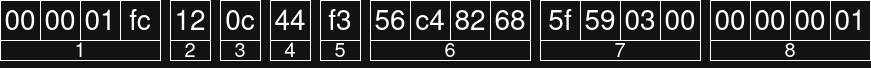
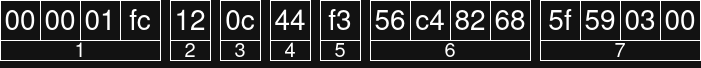
Updated header descriptions of media frames

diff --git a/README.md b/README.md
@@ -75,7 +75,8 @@ Header description of a single DVRIP/Sofia message is based on [Digital Video Re
 5. BIT 7 - low 8 bits of image height; the value is actual height divided by 8
 6. BIT 8-11 - datetime of the capture
 7. BIT 12-15 - length of I-Frame payload
-8. BIT 16-19 - first 4 bits of an I-Frame payload
+
+First 4 bits of an I-Frame payload (BITS 16-19) are equal to `0x00000001`
 
 Same exact header fields are shared between I-Frames (FC) and snapshots (FE).
 
@@ -89,7 +90,8 @@ Extension of I-Frames.
 
 1. BIT 0-3 - signature
 2. BIT 4-7 - length of P-Frame payload
-3. BIT 8-11 - first 4 bits of a P-Frame payload
+
+First 4 bits of a P-Frame payload (BITS 8-11) are equal to `0x00000001`
 
 # Information Frame Header
 
